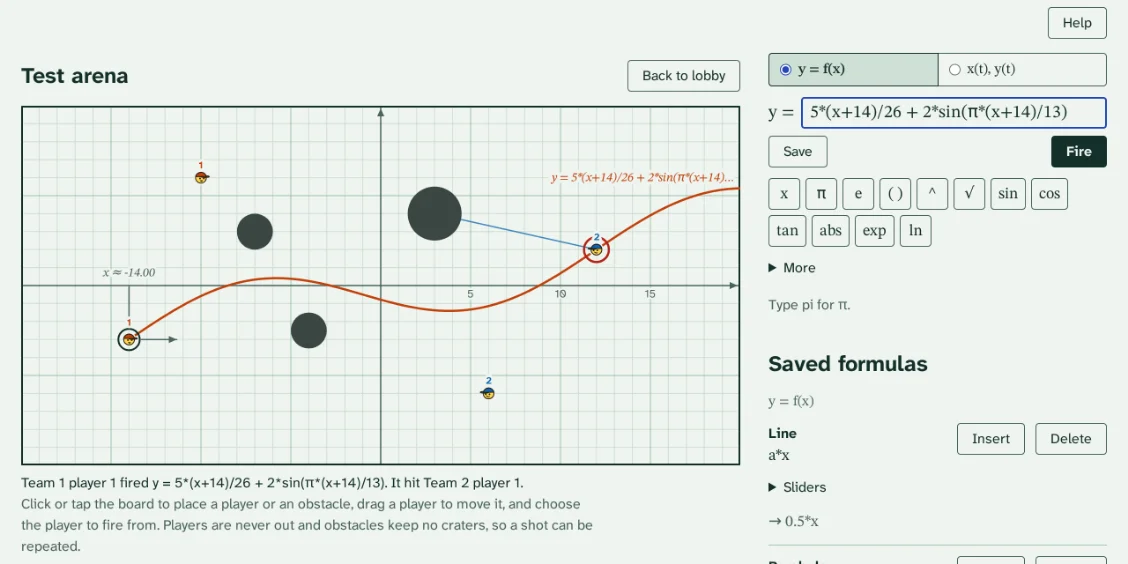
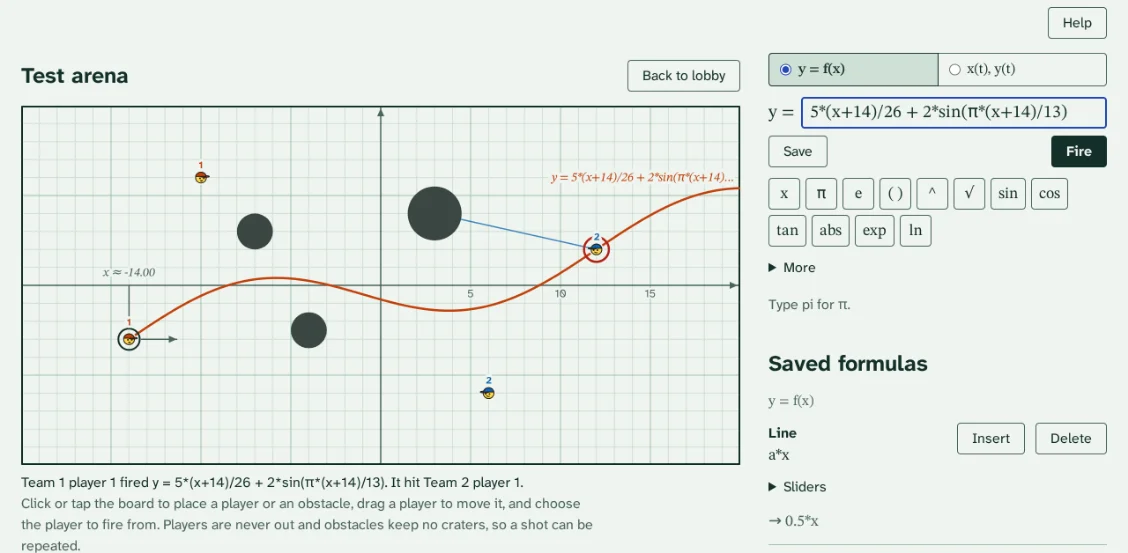
End the arena and formulas screenshots at a clean row
The PNGs end with the top of the next saved formula; the About copies drop
those rows.

diff --git a/static/index.html b/static/index.html
@@ -138,11 +138,11 @@
               <figcaption class="hint">The polar disc, for 2 to 8 players: shots are formulas in θ, fired clockwise or counterclockwise.</figcaption>
             </figure>
             <figure>
-              <img src="./about/arena.webp" width="564" height="282" loading="lazy" alt="The test arena: four players and three obstacles placed by hand, two shots drawn, and the player the long red shot hit ringed in red.">
+              <img src="./about/arena.webp" width="564" height="277" loading="lazy" alt="The test arena: four players and three obstacles placed by hand, two shots drawn, and the player the long red shot hit ringed in red.">
               <figcaption class="hint">The test arena, offline: place players and obstacles anywhere and try formulas as often as you like.</figcaption>
             </figure>
             <figure>
-              <img src="./about/formulas.webp" width="424" height="572" loading="lazy" alt="The saved formulas panel: a Parabola template a*(x - b)^2 with sliders for a and b, their ranges and steps, and the resulting formula below.">
+              <img src="./about/formulas.webp" width="424" height="559" loading="lazy" alt="The saved formulas panel: a Parabola template a*(x - b)^2 with sliders for a and b, their ranges and steps, and the resulting formula below.">
               <figcaption class="hint">Saved formulas and templates: sliders change a letter in the formula without retyping it.</figcaption>
             </figure>
           </div>
